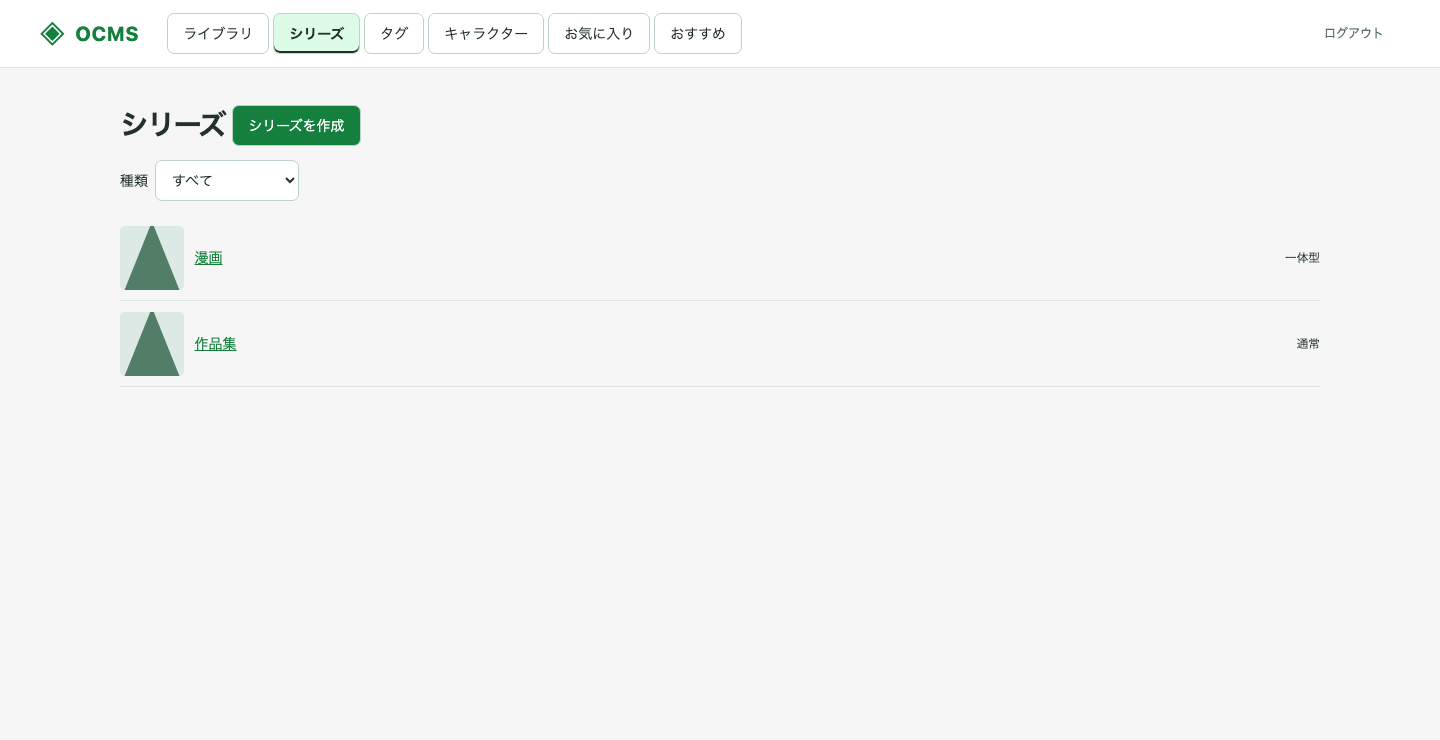
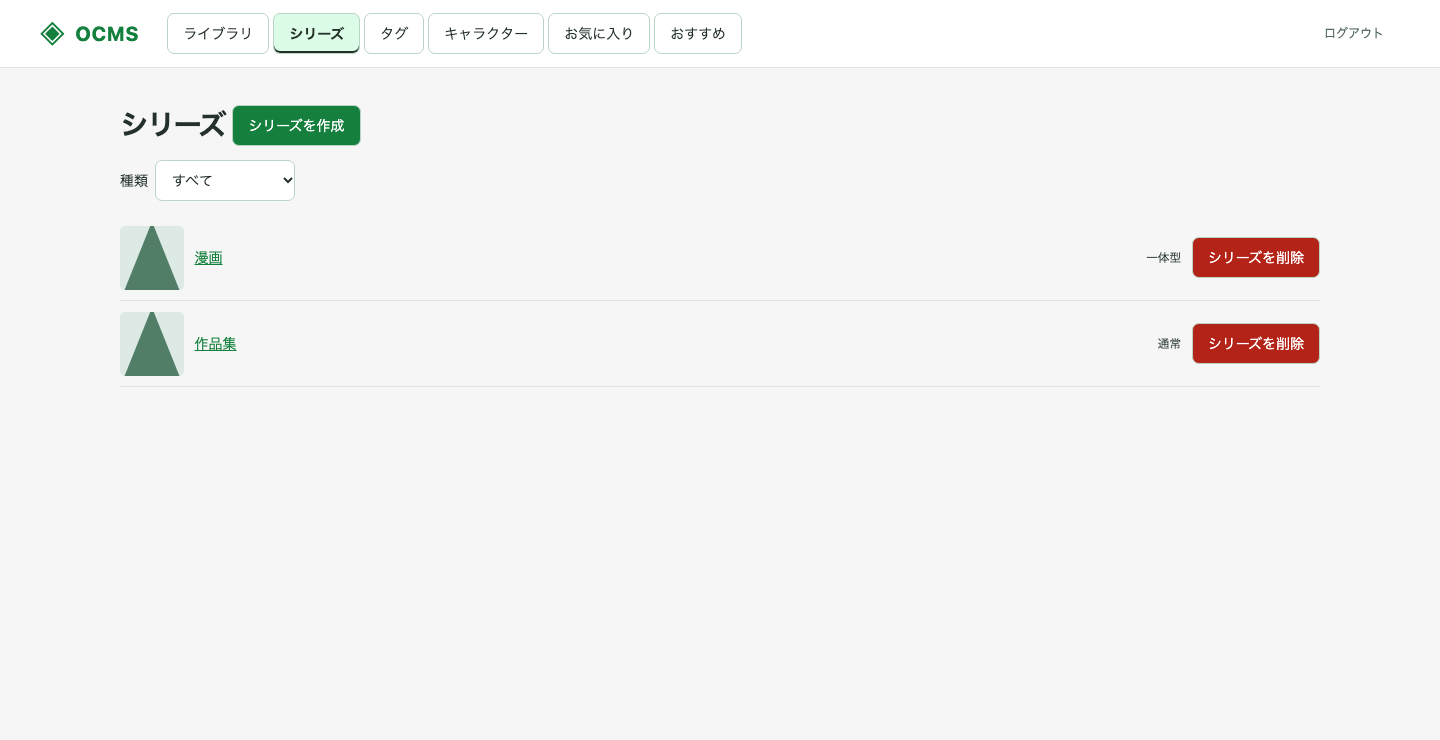
feat: allow deleting series from editor and list

Changed region(s): [[0.8125, 0.4351, 0.9375, 0.4973], [0.8125, 0.3108, 0.9375, 0.373]]

diff --git a/web/tests/series.spec.ts b/web/tests/series.spec.ts
@@ -525,6 +525,19 @@ for (const width of [1440, 390]) {
         () => document.documentElement.scrollWidth <= window.innerWidth,
       ),
     ).toBe(true);
+    await expect
+      .poll(() =>
+        page
+          .locator('.series-list img')
+          .evaluateAll((images) =>
+            images.every(
+              (image) =>
+                (image as HTMLImageElement).complete &&
+                (image as HTMLImageElement).naturalWidth > 0,
+            ),
+          ),
+      )
+      .toBe(true);
     if (process.env.OCMS_CAPTURE_SCREENSHOTS)
       await page.screenshot({
         path: `../docs/series-list-${width}.png`,
@@ -616,4 +629,186 @@ test('series badge is visible even when its cover preview is unavailable', async
   const card = page.getByRole('button', { name: '漫画', exact: true });
   await expect(card.locator('.thumbnail-placeholder')).toBeVisible();
   await expect(card.locator('.series-badge')).toBeVisible();
+});
+
+for (const kind of ['composite', 'collection'] as const) {
+  for (const origin of ['list', 'editor'] as const) {
+    test(`delete ${kind} from ${origin} preserves source files`, async ({
+      page,
+    }) => {
+      await setup(page);
+      const target = kind === 'composite' ? composite : collection;
+      const deleted: string[] = [];
+      await page.route('**/api/v1/series?**', (route) =>
+        route.fulfill({
+          json: {
+            assets: deleted.length ? [] : [target],
+            total: deleted.length ? 0 : 1,
+          },
+        }),
+      );
+      await page.route(`**/api/v1/series/${target.asset_id}`, (route) => {
+        if (route.request().method() !== 'DELETE') return route.fallback();
+        expect(route.request().headers()['x-csrf-token']).toBe('test');
+        deleted.push(target.asset_id);
+        return route.fulfill({ status: 204 });
+      });
+      const fileDeletes: string[] = [];
+      page.on('request', (request) => {
+        if (
+          request.method() === 'DELETE' &&
+          request.url().includes('/api/v1/assets/')
+        )
+          fileDeletes.push(request.url());
+      });
+      await page.goto(
+        origin === 'editor'
+          ? `/series/${target.asset_id}/edit`
+          : `/series?series_kind=${kind}`,
+      );
+      const remove = page.getByRole('button', {
+        name:
+          origin === 'editor'
+            ? 'シリーズを削除'
+            : `${target.filename}のシリーズを削除`,
+        exact: true,
+      });
+      page.once('dialog', async (dialog) => {
+        expect(dialog.message()).toContain(target.filename);
+        expect(dialog.message()).toContain('元のファイルは残ります');
+        await dialog.dismiss();
+      });
+      await remove.click();
+      await expect(remove).toBeEnabled();
+      expect(deleted).toEqual([]);
+      page.once('dialog', (dialog) => dialog.accept());
+      await remove.click();
+      await expect(
+        page.getByText(
+          kind === 'composite' && origin === 'list'
+            ? '一体型シリーズがありません'
+            : kind === 'collection' && origin === 'list'
+              ? '通常シリーズがありません'
+              : 'シリーズがありません',
+          { exact: true },
+        ),
+      ).toBeVisible();
+      await expect(page).toHaveURL(
+        origin === 'editor' ? /\/series$/ : new RegExp(`series_kind=${kind}$`),
+      );
+      expect(deleted).toEqual([target.asset_id]);
+      expect(fileDeletes).toEqual([]);
+    });
+  }
+}
+
+for (const origin of ['list', 'editor'] as const) {
+  test(`failed deletion in ${origin} keeps the current work and can retry`, async ({
+    page,
+  }) => {
+    await setup(page);
+    let attempts = 0;
+    await page.route('**/api/v1/series/comic', (route) => {
+      if (route.request().method() !== 'DELETE') return route.fallback();
+      attempts++;
+      return route.fulfill({
+        status: 503,
+        json: { error: 'SERVICE_UNAVAILABLE' },
+      });
+    });
+    await page.goto(origin === 'editor' ? '/series/comic/edit' : '/series');
+    if (origin === 'editor')
+      await page.getByLabel('シリーズ名').fill('未保存の名前');
+    page.on('dialog', (dialog) => dialog.accept());
+    const remove = page.getByRole('button', {
+      name: origin === 'editor' ? 'シリーズを削除' : '漫画のシリーズを削除',
+      exact: true,
+    });
+    await remove.click();
+    await expect(page.getByRole('alert')).toContainText(
+      'シリーズを削除できません',
+    );
+    if (origin === 'editor')
+      await expect(page.getByLabel('シリーズ名')).toHaveValue('未保存の名前');
+    else
+      await expect(
+        page.getByRole('link', { name: '作品集', exact: true }),
+      ).toBeVisible();
+    await expect(remove).toBeEnabled();
+    await remove.click();
+    await expect(remove).toBeEnabled();
+    expect(attempts).toBe(2);
+  });
+}
+
+test('shared series cannot be deleted from the list or editor', async ({
+  page,
+}) => {
+  await setup(page);
+  const deletes: string[] = [];
+  page.on('request', (r) => {
+    if (r.method() === 'DELETE') deletes.push(r.url());
+  });
+  await page.route('**/api/v1/series/comic', (route) =>
+    route.fulfill({ json: { ...composite, editable: false } }),
+  );
+  await page.goto('/series');
+  await page
+    .getByRole('button', { name: '漫画のシリーズを削除', exact: true })
+    .click();
+  await expect(page.getByRole('alert')).toHaveText(
+    'シリーズを削除できるのは所有者だけです。',
+  );
+  await page.goto('/series/comic/edit');
+  await expect(page.getByLabel('シリーズ名')).toHaveValue('漫画');
+  await expect(
+    page.getByRole('button', { name: 'シリーズを削除', exact: true }),
+  ).toHaveCount(0);
+  expect(deletes).toEqual([]);
+});
+
+test('deleting the last series on a page returns to the preceding filtered page', async ({
+  page,
+}) => {
+  await setup(page);
+  let deleted = false;
+  await page.route('**/api/v1/series?**', (route) =>
+    route.fulfill({
+      json: {
+        assets: deleted
+          ? [
+              {
+                ...composite,
+                asset_id: 'remaining',
+                filename: '残りのシリーズ',
+              },
+            ]
+          : [composite],
+        total: deleted ? 200 : 201,
+      },
+    }),
+  );
+  await page.route('**/api/v1/series/comic', (route) => {
+    if (route.request().method() !== 'DELETE') return route.fallback();
+    deleted = true;
+    return route.fulfill({ status: 204 });
+  });
+  await page.goto('/series?series_kind=composite&page=2');
+  page.once('dialog', (dialog) => dialog.accept());
+  await page
+    .getByRole('button', { name: '漫画のシリーズを削除', exact: true })
+    .click();
+  await expect(page).toHaveURL(/\/series\?series_kind=composite$/);
+  await expect(
+    page.getByRole('link', { name: '残りのシリーズ', exact: true }),
+  ).toBeVisible();
+});
+
+test('new series has no delete action', async ({ page }) => {
+  await setup(page);
+  await page.goto('/series/new');
+  await expect(page.getByLabel('シリーズ名')).toBeVisible();
+  await expect(
+    page.getByRole('button', { name: 'シリーズを削除', exact: true }),
+  ).toHaveCount(0);
 });

diff --git a/web/src/components/series/SeriesPage.tsx b/web/src/components/series/SeriesPage.tsx
@@ -53,6 +53,8 @@ export function SeriesPage({ request }: { request: Request }) {
   const [candidateLoading, setCandidateLoading] = useState(false);
   const [busy, setBusy] = useState(false);
   const [error, setError] = useState('');
+  const [deleteError, setDeleteError] = useState('');
+  const [deletingId, setDeletingId] = useState('');
   const [candidateError, setCandidateError] = useState('');
   const [retry, setRetry] = useState(0);
   const [metadata, setMetadata] = useState<Asset | null>(null);
@@ -220,21 +222,42 @@ export function SeriesPage({ request }: { request: Request }) {
     }
   }
 
-  async function dissolve() {
-    if (
-      !series ||
-      !confirm('シリーズを解除しますか？ 元のファイルは残ります。')
-    )
-      return;
+  async function dissolve(target: Asset) {
+    if (busy) return;
     setBusy(true);
-    setError('');
+    setDeletingId(target.asset_id);
+    setDeleteError('');
     try {
-      await request(`/api/v1/series/${series.asset_id}`, { method: 'DELETE' });
-      navigate('/series');
+      const detail =
+        series?.asset_id === target.asset_id
+          ? series
+          : ((await request(
+              `/api/v1/series/${encodeURIComponent(target.asset_id)}`,
+            )) as Series);
+      if (!detail.editable) {
+        setDeleteError('シリーズを削除できるのは所有者だけです。');
+        return;
+      }
+      if (
+        !confirm(
+          `「${detail.filename}」を削除しますか？ 元のファイルは残ります。`,
+        )
+      )
+        return;
+      await request(`/api/v1/series/${encodeURIComponent(target.asset_id)}`, {
+        method: 'DELETE',
+      });
+      if (id) navigate('/series');
+      else if (items.length === 1 && page > 1)
+        navigate(seriesListURL(page - 1));
+      else setRetry((value) => value + 1);
     } catch {
-      setError('解除できません。再試行してください。');
+      setDeleteError(
+        'シリーズを削除できません。もう一度削除をお試しください。',
+      );
     } finally {
       setBusy(false);
+      setDeletingId('');
     }
   }
 
@@ -338,7 +361,7 @@ export function SeriesPage({ request }: { request: Request }) {
                   members.length < 2 || !name.trim() || candidateLoading
                 }
               >
-                {busy ? '保存中…' : '保存'}
+                {busy && !deletingId ? '保存中…' : '保存'}
               </Button>
               <Link
                 to={
@@ -352,6 +375,18 @@ export function SeriesPage({ request }: { request: Request }) {
                 キャンセル
               </Link>
             </div>
+            {!creating && series?.editable && (
+              <div className="series-delete-actions">
+                <Button
+                  type="button"
+                  variant="destructive"
+                  onClick={() => void dissolve(series)}
+                >
+                  {deletingId ? '削除中…' : 'シリーズを削除'}
+                </Button>
+              </div>
+            )}
+            {deleteError && <p role="alert">{deleteError}</p>}
             <div className="series-editor">
               <section>
                 <h2>選択済み（{members.length}）</h2>
@@ -513,12 +548,13 @@ export function SeriesPage({ request }: { request: Request }) {
           {series.editable && (
             <>
               <Link to={`/series/${series.asset_id}/edit`}>編集</Link>
-              <Button disabled={busy} onClick={() => void dissolve()}>
+              <Button disabled={busy} onClick={() => void dissolve(series)}>
                 シリーズを解除
               </Button>
             </>
           )}
         </div>
+        {deleteError && <p role="alert">{deleteError}</p>}
         <p>
           {series.tags.join('・')} {series.characters?.join('・')}{' '}
           {series.rating}
@@ -582,6 +618,7 @@ export function SeriesPage({ request }: { request: Request }) {
           <option value="composite">一体型シリーズ</option>
         </NativeSelect>
       </label>
+      {deleteError && <p role="alert">{deleteError}</p>}
       {items.length === 0 ? (
         <p>
           {listKind === 'collection'
@@ -591,7 +628,7 @@ export function SeriesPage({ request }: { request: Request }) {
               : 'シリーズがありません'}
         </p>
       ) : (
-        <ul className="series-members">
+        <ul className="series-members series-list">
           {items.map((asset) => (
             <li key={asset.asset_id}>
               <Thumbnail asset={asset} />
@@ -604,6 +641,14 @@ export function SeriesPage({ request }: { request: Request }) {
               <small>
                 {asset.series_kind === 'composite' ? '一体型' : '通常'}
               </small>
+              <Button
+                variant="destructive"
+                disabled={busy}
+                aria-label={`${asset.filename}のシリーズを削除`}
+                onClick={() => void dissolve(asset)}
+              >
+                {deletingId === asset.asset_id ? '削除中…' : 'シリーズを削除'}
+              </Button>
             </li>
           ))}
         </ul>

diff --git a/web/src/style.css b/web/src/style.css
@@ -1611,6 +1611,9 @@ summary .count {
 .series-submit-actions {
   margin-bottom: 1.5rem;
 }
+.series-delete-actions {
+  margin-bottom: 1.5rem;
+}
 .series-actions {
   display: flex;
   align-items: center;
@@ -1618,6 +1621,17 @@ summary .count {
   gap: 0.5rem;
 }
 @media (max-width: 760px) {
+  .series-list li {
+    display: grid;
+    grid-template-columns: 64px minmax(0, 1fr) auto;
+  }
+  .series-list li > a {
+    min-width: 0;
+  }
+  .series-list li > button {
+    grid-column: 2 / -1;
+    justify-self: end;
+  }
   .series-editor {
     grid-template-columns: 1fr;
     gap: 1rem;
